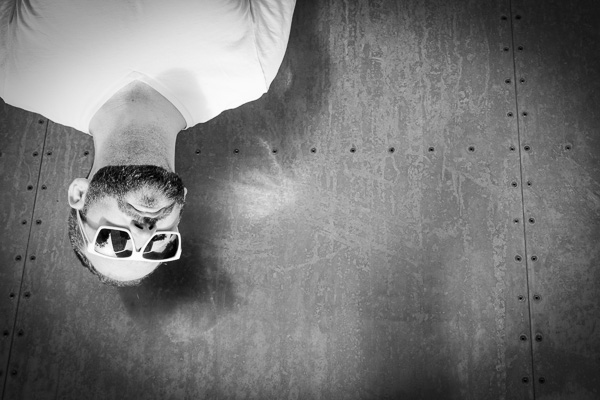
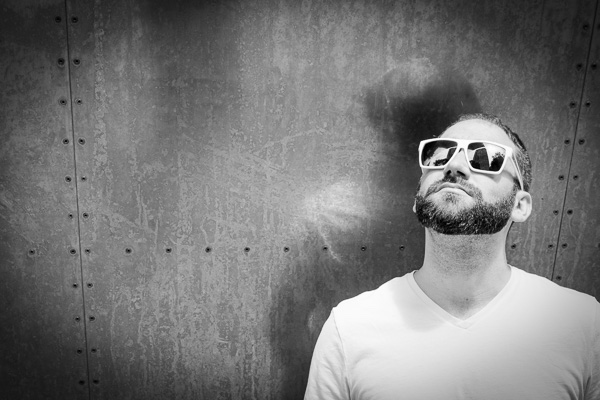
Rotate work photo to looking up.

diff --git a/css/styles.css b/css/styles.css
@@ -1,7 +1,3 @@
-/*.row {
-  width: 100%;
-  padding: 0;
-}*/
 .body {
   background: #000000;
   margin: 0;
@@ -38,11 +34,6 @@
   float: center;
   text-align: center;
 }
-/*#contact {
-  float: center;
-  width: 10%;
-  /*text-align: left;*/
-}*/
 #work {
   float: center;
   width: 10%;

diff --git a/css/desktop.css b/css/desktop.css
@@ -1,8 +1,4 @@
 @media only screen and (min-width: 481px) {
-	/*.body {
-		padding-left:40px;
-		padding-right: -15px;
-	}*/
 	.work-image {
 	  padding-left: 30px;
 	}
